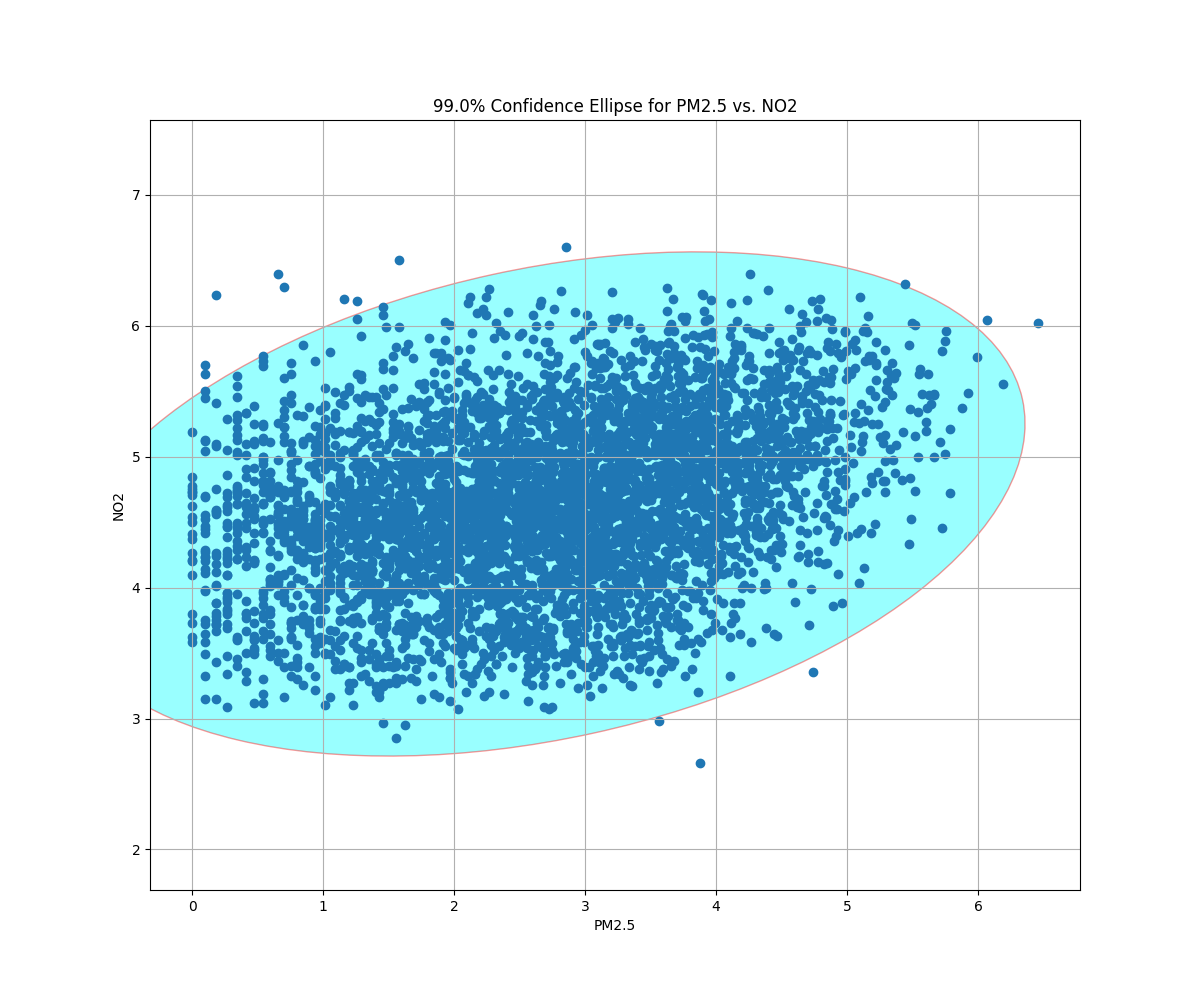
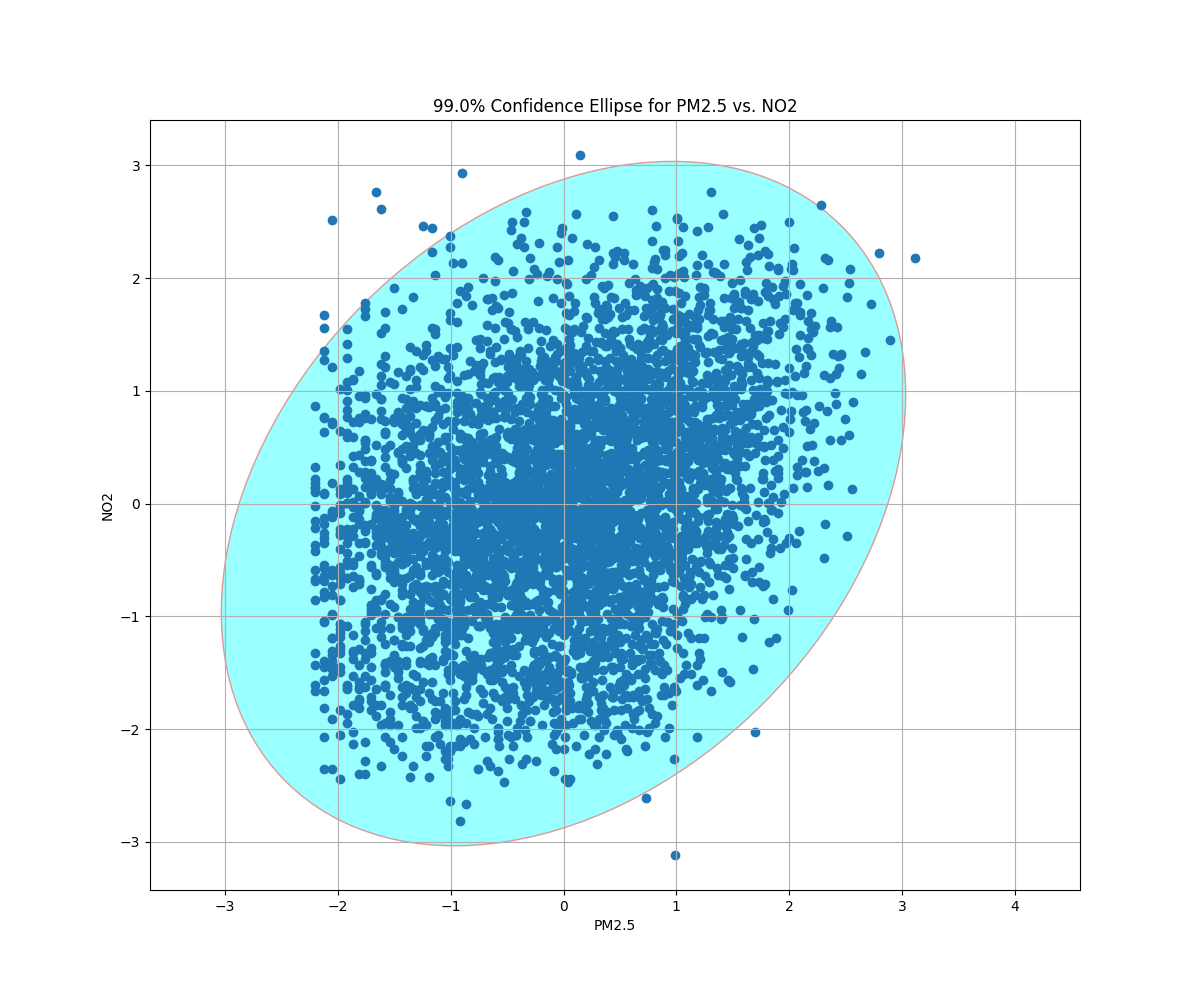
fix: used correct data to detect outliers

diff --git a/HW1/outlier.py b/HW1/outlier.py
@@ -7,7 +7,7 @@ from matplotlib import pyplot as plt
 from utils.mahalanobis import mahalanobis_distances
 from utils.qq_plots import create_qq_plots
 
-PATH = "./data_transformations/data_yeojohnson.csv"
+PATH = "./data_transformations/data_yeojohnson_zscore.csv"
 AFTER_PCA_PATH = "./data_transformations/PCA_Score.csv"
 
 
